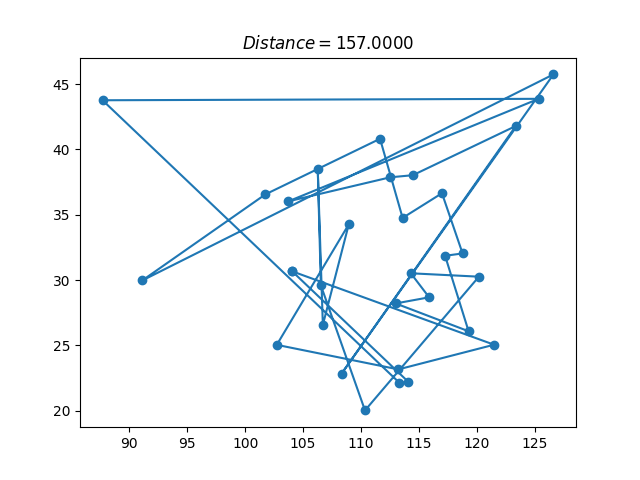
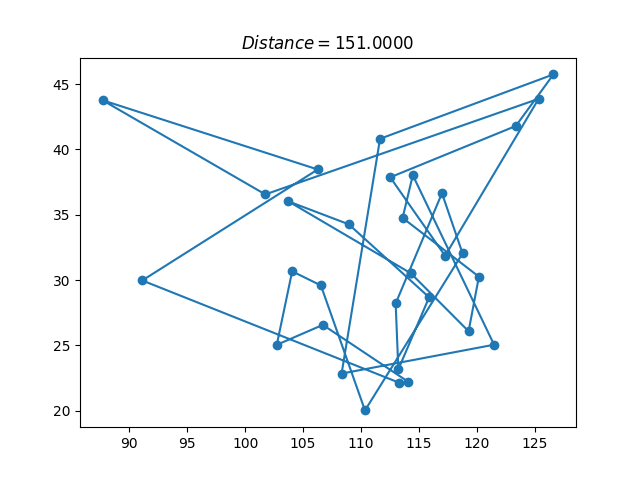
2022年8月25日

diff --git a/src/algorithm/ga.py b/src/algorithm/ga.py
@@ -57,6 +57,23 @@ class Ga:
         self.tabu[i] = []
         self.update_best(i)
 
+    def replace_individual_comp(self, i, info, info2):
+        fit = Utils.calculate_fitness(self.max_or_min, info.obj)
+        fit1 = self.pop_copy[2][i]
+        fit2 = Utils.calculate_fitness(self.max_or_min, info2.obj)
+        fit_list = [fit, fit1, fit2]
+        max_fit = max(fit_list)
+        idx_max_fit = fit_list.index(max_fit)
+        if idx_max_fit == 1:
+            info, fit = self.pop_copy[0][i], fit1
+        elif idx_max_fit == 2:
+            info, fit = info2, fit2
+        self.pop[0][i] = info
+        self.pop[1][i] = info.obj
+        self.pop[2][i] = fit
+        self.tabu[i] = []
+        self.update_best(i)
+
     def replace_individual_better(self, i, info):
         fit = Utils.calculate_fitness(self.max_or_min, info.obj)
         if Utils.update(self.max_or_min, self.pop[1][i], info.obj):
@@ -223,7 +240,8 @@ class GaTsp(Ga):
     def do_crossover(self, i, j):
         # code1, code2 = self.pop[0][i].ga_crossover(self.pop[0][j])
         code1, code2 = self.pop[0][i].ga_crossover(self.pop_copy[0][j])
-        self.replace_individual(i, self.decode(code1))
+        # self.replace_individual(i, self.decode(code1))
+        self.replace_individual_comp(i, self.decode(code1), self.decode(code2))
         # self.replace_individual(j, self.decode(code2))
 
     def do_mutation(self, i):

diff --git a/test_de.py b/test_de.py
@@ -55,11 +55,11 @@ dtype = [float, ]
 
 # low: 变量的下界; high: 变量的上界; dtype: 变量的数据类型; func: 目标函数
 # max_or_min: 最大化或最小化(最大化: 值取0, 最小化: 值取1)
-func = six_hump_camel_function
-low = [-3, -2]
-high = [3, 3]
-dtype = [float, float]
-max_or_min = 1
+func = fun_a
+low = [-10, ]
+high = [10, ]
+dtype = [float, ]
+max_or_min = 0
 my_problem = NumericOptimization(low, high, dtype)
 # 参数
 pop_size = 20
